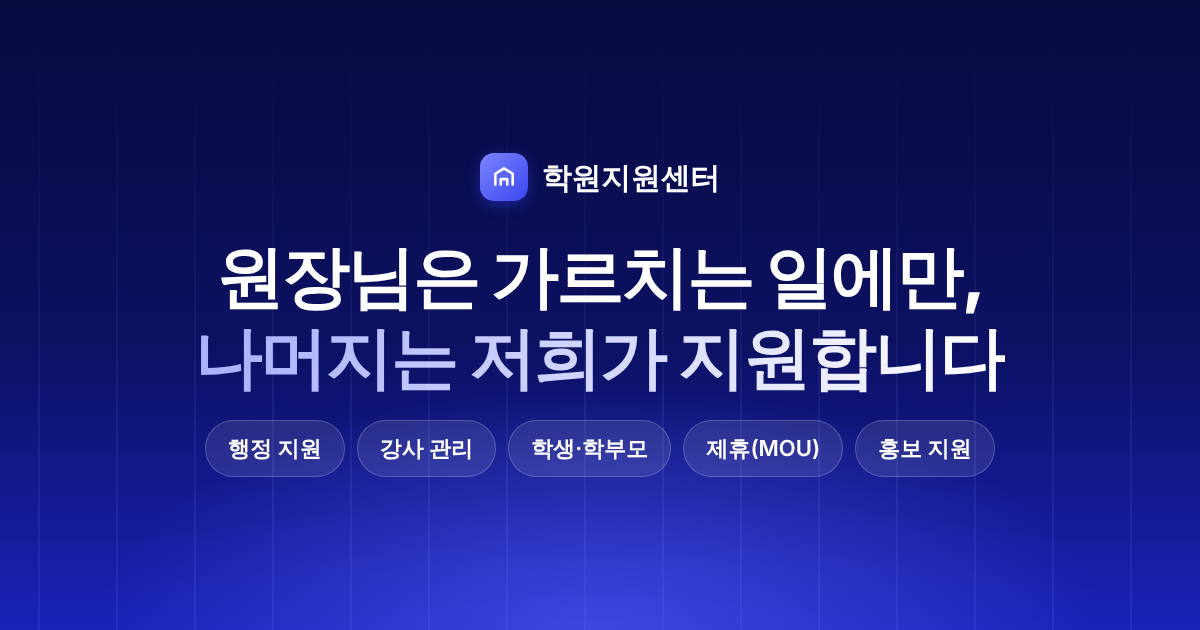
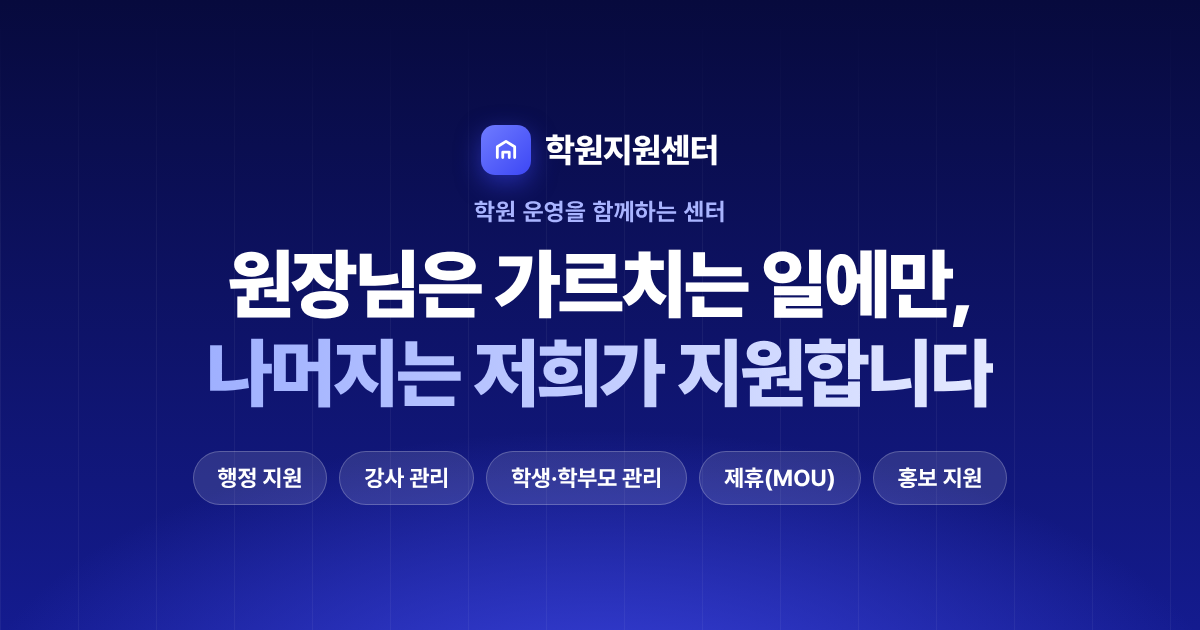
설정 · 내 정보 · 이름/아이디/전화번호 중복 막기 · 미리보기 이미지 굵게
- 설정(#settings): 내 정보 보기 · 고치기(휴대폰 포함) · 비밀번호 바꾸기, 우리 학원, 이용 중인 센터 지원, 결제 정보, 화면 밝기 · 로그인 유지 · 메뉴 설정, 계정
- 회원가입 · 구글 첫 가입 · 내 정보 고치기: 이름 · 아이디 · 휴대폰이 다른 회원과 겹치면 "이미 있는 이름이에요!"처럼 알려 주고 막아요 (DB 유일 인덱스 + check_profile_taken)
- 공유 미리보기 이미지: Pretendard 굵은 글씨, 첫 화면 문구 그대로 (og.png?v=2로 새로 읽게)

Claude-Session: https://claude.ai/code/session_01MVaVmcqrGUAxqJgxqJ2J3v

Changed region(s): [[0.1542, 0.3921, 1.0, 1.0], [0.0, 0.8143, 0.2467, 1.0], [0.4008, 0.181, 0.6167, 0.3619]]

diff --git a/index.html b/index.html
@@ -10,14 +10,14 @@
 <meta property="og:title" content="학원지원센터 — 원장님은 가르치는 일에만, 나머지는 저희가 지원합니다">
 <meta property="og:description" content="행정 지원부터 강사 교육·채용, 제휴(MOU), 홍보, 학생·학부모 관리까지. 학원 운영에 필요한 모든 지원을 한곳에서.">
 <meta property="og:url" content="https://academysupportcenter.vercel.app/">
-<meta property="og:image" content="https://academysupportcenter.vercel.app/assets/og.png">
+<meta property="og:image" content="https://academysupportcenter.vercel.app/assets/og.png?v=2">
 <meta property="og:image:width" content="1200">
 <meta property="og:image:height" content="630">
 <meta property="og:locale" content="ko_KR">
 <meta name="twitter:card" content="summary_large_image">
 <meta name="twitter:title" content="학원지원센터 — 원장님은 가르치는 일에만, 나머지는 저희가 지원합니다">
 <meta name="twitter:description" content="행정 지원부터 강사 교육·채용, 제휴(MOU), 홍보, 학생·학부모 관리까지. 학원 운영에 필요한 모든 지원을 한곳에서.">
-<meta name="twitter:image" content="https://academysupportcenter.vercel.app/assets/og.png">
+<meta name="twitter:image" content="https://academysupportcenter.vercel.app/assets/og.png?v=2">
 <meta name="theme-color" content="#070a3d">
 <link rel="icon" href="assets/favicon.svg" type="image/svg+xml">
 <link rel="stylesheet" href="https://cdn.jsdelivr.net/npm/pretendard@1.3.9/dist/web/static/pretendard.min.css">
@@ -88,7 +88,8 @@
           <label><input type="radio" name="role" value="student"><span>학생</span></label>
         </div>
       </div>
-      <div class="field"><label for="nm">이름</label><input id="nm" name="fullname" placeholder="예: 홍길동" autocomplete="name"></div>
+      <div class="field"><label for="nm">이름 <small>다른 회원과 겹치지 않게</small></label><input id="nm" name="fullname" placeholder="예: 홍길동" autocomplete="name"></div>
+      <div class="field" id="phField"><label for="sph">휴대폰 번호 <small id="phNote">아이디 · 비밀번호를 잊었을 때 확인해요</small></label><input id="sph" name="phone" type="tel" inputmode="numeric" maxlength="13" placeholder="010-0000-0000" autocomplete="tel"></div>
       <div class="field"><label for="sid">아이디 <small>영어 소문자·숫자·_ 4~20자</small></label><input id="sid" name="uid" placeholder="예: haneul_owner" autocomplete="username" autocapitalize="none"></div>
       <div class="field"><label for="spw">비밀번호 <small>8자 이상</small></label><input id="spw" name="pw" type="password" placeholder="8자 이상으로 정해 주세요" autocomplete="new-password"></div>
       <div class="field" id="acField"><label for="ac">학원 이름</label><input id="ac" name="academy" placeholder="예: 하늘영어학원"></div>
@@ -494,20 +495,36 @@ loginForm.onsubmit = e => {
   });
 };
 
+// 이름 · 아이디 · 전화번호가 다른 회원과 겹치면 가입하지 않고 알려 줘요 (서버도 한 번 더 막아요)
+const TAKEN_TEXT = { username: '아이디', name: '이름', phone: '전화번호' };
+const hasJong = w => { const c = w.charCodeAt(w.length - 1) - 0xac00; return c >= 0 && c <= 11171 && c % 28 > 0; };
+const takenMsg = list => { const w = list.map(k => TAKEN_TEXT[k]).join(' · '), j = hasJong(w); return `이미 있는 ${w}${j ? '이에요' : '예요'}! 다른 ${w}${j ? '을' : '를'} 써 주세요.`; };
+function markTaken(list) {
+  const map = { username: 'uid', name: 'fullname', phone: 'phone' };
+  Object.values(map).forEach(n => signupForm.elements[n].classList.remove('bad'));
+  list.forEach(k => signupForm.elements[map[k]].classList.add('bad'));
+  if (list.length) signupForm.elements[map[list[0]]].focus();
+}
 signupForm.onsubmit = e => {
   e.preventDefault();
-  const f = signupForm, el = f.elements, id = el.uid.value.trim().toLowerCase(), pw = el.pw.value, name = el.fullname.value.trim();
+  const f = signupForm, el = f.elements, id = el.uid.value.trim().toLowerCase(), pw = el.pw.value, name = el.fullname.value.trim(), phone = el.phone.value.trim();
+  const needPhone = el.role.value !== 'student';
+  markTaken([]);
   if (!name) return showMsg(signupMsg, '이름을 적어 주세요.');
+  if (needPhone && !phone) return showMsg(signupMsg, '휴대폰 번호를 적어 주세요.');
+  if (phone && !phoneOk(phone)) return showMsg(signupMsg, '휴대폰 번호 형식이 맞지 않아요. 예: 010-1234-5678');
   if (!ID_RULE.test(id)) return showMsg(signupMsg, '아이디는 영어 소문자·숫자·_ 로 4~20자예요.');
   if (pw.length < 8) return showMsg(signupMsg, '비밀번호는 8자 이상으로 정해 주세요.');
   if (!SB) return showMsg(signupMsg, '지금은 예시 계정으로만 둘러볼 수 있어요.');
   setKeepLogin(true);
   busy(f.querySelector('button'), '가입하는 중…', async () => {
+    const { data: taken } = await SB.rpc('check_profile_taken', { p_username: id, p_name: name, p_phone: phone || null });
+    if (taken && taken.length) { markTaken(taken); return showMsg(signupMsg, takenMsg(taken)); }
     const { data, error } = await SB.auth.signUp({
       email: idToEmail(id), password: pw,
-      options: { data: { username: id, name: name.slice(0, 50), role: el.role.value, academy_name: el.academy.value.trim().slice(0, 100) } }
+      options: { data: { username: id, name: name.slice(0, 50), phone: phone || null, role: el.role.value, academy_name: el.academy.value.trim().slice(0, 100) } }
     });
-    if (error) return showMsg(signupMsg, authErrorText(error));
+    if (error) return showMsg(signupMsg, /Database error/i.test(error.message || '') ? '이미 있는 이름 · 아이디 · 전화번호예요! 다시 확인해 주세요.' : authErrorText(error));
     if (!data.session) return showMsg(signupMsg, '가입은 됐는데 바로 로그인할 수 없어요. 센터에 문의해 주세요.');
     location.href = 'app.html';
   });
@@ -519,6 +536,8 @@ signupForm.querySelectorAll('[name=role]').forEach(r => r.onchange = () => {
   document.getElementById('acField').hidden = !owner;
   document.getElementById('codeHint').hidden = owner;
   document.getElementById('ownerHint').hidden = !owner;
+  // 학생은 휴대폰이 없을 수 있어서 전화번호를 꼭 받지 않아요 (부모님 번호는 부모님 계정이 써요)
+  document.getElementById('phNote').textContent = signupForm.elements.role.value === 'student' ? '없으면 비워 두세요 · 부모님 번호는 넣지 말아 주세요' : '아이디 · 비밀번호를 잊었을 때 확인해요';
 });
 
 document.getElementById('googleBtn').onclick = async () => {

diff --git a/assets/app.css b/assets/app.css
@@ -762,3 +762,33 @@ a.plan-card:hover, a.plan-card.on { background: rgba(255,255,255,.14); border-co
 .task-kind b { font-size: 14px; }
 .task-kind small { font-size: 12.5px; color: var(--muted); line-height: 1.5; }
 .task-kind .go { font-size: 12.5px; font-weight: 700; color: var(--blue-600); margin-top: 4px; }
+
+/* 설정 */
+.set-grid { display: grid; grid-template-columns: 1fr 1fr; gap: 16px; align-items: start; }
+.set-grid > div { display: grid; gap: 16px; }
+.set-card .row-btns { margin-top: 12px; }
+.set-me { display: flex; gap: 14px; align-items: center; margin-bottom: 10px; }
+.set-me > div { display: grid; gap: 2px; }
+.set-me b { font-size: 17px; }
+.set-row { display: flex; justify-content: space-between; gap: 12px; padding: 10px 0; border-bottom: 1px solid var(--line); font-size: 14px; }
+.set-row > span { color: var(--muted); flex: none; }
+.set-row > b { font-weight: 600; text-align: right; word-break: break-all; }
+.set-line { display: flex; justify-content: space-between; align-items: center; gap: 12px; padding: 12px 0; border-bottom: 1px solid var(--line); }
+.set-line:last-child { border-bottom: 0; }
+.set-line > div:first-child { display: grid; gap: 2px; }
+.set-line b { font-size: 14px; }
+.set-line small { font-size: 12.5px; color: var(--muted); }
+.set-line .admin-apply-link { white-space: nowrap; }
+.seg { display: inline-flex; background: var(--sunk); border-radius: 999px; padding: 3px; flex: none; }
+.seg button { border: 0; background: none; color: var(--muted); font: inherit; font-size: 13px; font-weight: 600; padding: 6px 12px; border-radius: 999px; cursor: pointer; }
+.seg button.on { background: var(--surface); color: var(--ink); box-shadow: 0 1px 4px rgba(0,0,0,.12); }
+.switch { position: relative; width: 46px; height: 26px; flex: none; }
+.switch input { opacity: 0; width: 0; height: 0; }
+.switch span { position: absolute; inset: 0; border-radius: 999px; background: var(--line); cursor: pointer; transition: .2s; }
+.switch span::after { content: ""; position: absolute; left: 3px; top: 3px; width: 20px; height: 20px; border-radius: 50%; background: #fff; transition: .2s; box-shadow: 0 1px 3px rgba(0,0,0,.2); }
+.switch input:checked + span { background: var(--blue-600); }
+.switch input:checked + span::after { transform: translateX(20px); }
+.me-link { display: flex; align-items: center; gap: 10px; color: inherit; text-decoration: none; border-radius: 12px; }
+.me-link:hover b { color: var(--blue-600); }
+@media (max-width: 900px) { .set-grid { grid-template-columns: 1fr; } }
+@media (max-width: 560px) { .set-line { flex-wrap: wrap; } .set-line > div:first-child { flex: 1 1 60%; } .seg button { padding: 6px 10px; } }

diff --git a/app.html b/app.html
@@ -10,14 +10,14 @@
 <meta property="og:title" content="학원지원센터">
 <meta property="og:description" content="행정 지원부터 강사 교육·채용, 제휴(MOU), 홍보, 학생·학부모 관리까지. 학원 운영에 필요한 모든 지원을 한곳에서.">
 <meta property="og:url" content="https://academysupportcenter.vercel.app/app.html">
-<meta property="og:image" content="https://academysupportcenter.vercel.app/assets/og.png">
+<meta property="og:image" content="https://academysupportcenter.vercel.app/assets/og.png?v=2">
 <meta property="og:image:width" content="1200">
 <meta property="og:image:height" content="630">
 <meta property="og:locale" content="ko_KR">
 <meta name="twitter:card" content="summary_large_image">
 <meta name="twitter:title" content="학원지원센터">
 <meta name="twitter:description" content="행정 지원부터 강사 교육·채용, 제휴(MOU), 홍보, 학생·학부모 관리까지. 학원 운영에 필요한 모든 지원을 한곳에서.">
-<meta name="twitter:image" content="https://academysupportcenter.vercel.app/assets/og.png">
+<meta name="twitter:image" content="https://academysupportcenter.vercel.app/assets/og.png?v=2">
 <meta name="theme-color" content="#070a3d">
 <link rel="icon" href="assets/favicon.svg" type="image/svg+xml">
 <link rel="stylesheet" href="https://cdn.jsdelivr.net/npm/pretendard@1.3.9/dist/web/static/pretendard.min.css">

diff --git a/assets/theme.js b/assets/theme.js
@@ -23,6 +23,12 @@
     try { localStorage.setItem('asc-theme', next); } catch (e) { /* 저장 못 해도 지금 화면은 바뀌어요 */ }
     paint();
   };
+  // 설정 화면: 기기 설정(system) · 밝게(light) · 어둡게(dark)
+  window.setThemeMode = mode => {
+    if (mode === 'dark' || mode === 'light') root.dataset.theme = mode; else delete root.dataset.theme;
+    try { if (mode === 'dark' || mode === 'light') localStorage.setItem('asc-theme', mode); else localStorage.removeItem('asc-theme'); } catch (e) { /* 지금 화면만 바뀌어요 */ }
+    paint();
+  };
   document.addEventListener('click', e => { if (e.target.closest('[data-theme-toggle]')) window.toggleTheme(); });
   mq.addEventListener && mq.addEventListener('change', paint);
   window.paintTheme = paint;

diff --git a/login.html b/login.html
@@ -6,7 +6,7 @@
 <title>학원지원센터</title>
 <meta property="og:title" content="학원지원센터 — 원장님은 가르치는 일에만, 나머지는 저희가 지원합니다">
 <meta property="og:description" content="행정 지원부터 강사 교육·채용, 제휴(MOU), 홍보, 학생·학부모 관리까지. 학원 운영에 필요한 모든 지원을 한곳에서.">
-<meta property="og:image" content="https://academysupportcenter.vercel.app/assets/og.png">
+<meta property="og:image" content="https://academysupportcenter.vercel.app/assets/og.png?v=2">
 <meta property="og:url" content="https://academysupportcenter.vercel.app/">
 <link rel="icon" href="assets/favicon.svg" type="image/svg+xml">
 <link rel="canonical" href="https://academysupportcenter.vercel.app/">

diff --git a/service.html b/service.html
@@ -6,7 +6,7 @@
 <title>학원지원센터</title>
 <meta property="og:title" content="학원지원센터 — 원장님은 가르치는 일에만, 나머지는 저희가 지원합니다">
 <meta property="og:description" content="행정 지원부터 강사 교육·채용, 제휴(MOU), 홍보, 학생·학부모 관리까지. 학원 운영에 필요한 모든 지원을 한곳에서.">
-<meta property="og:image" content="https://academysupportcenter.vercel.app/assets/og.png">
+<meta property="og:image" content="https://academysupportcenter.vercel.app/assets/og.png?v=2">
 <meta property="og:url" content="https://academysupportcenter.vercel.app/">
 <link rel="icon" href="assets/favicon.svg" type="image/svg+xml">
 <link rel="canonical" href="https://academysupportcenter.vercel.app/">

diff --git a/assets/site.css b/assets/site.css
@@ -167,6 +167,7 @@ main { display: grid; place-items: center; padding: 40px 24px; }
 .field label { font-size: 13px; font-weight: 600; }
 .field input { border: 1px solid var(--line); border-radius: 12px; padding: 12px 14px; background: var(--surface); }
 .field input:focus { border-color: var(--blue-500); outline: none; box-shadow: 0 0 0 4px var(--blue-50); }
+.field input.bad { border-color: #ff7a66; box-shadow: 0 0 0 4px rgba(255,122,102,.15); }
 .btn.wide { width: 100%; padding: 13px; font-size: 15px; }
 .divider { display: flex; align-items: center; gap: 12px; color: var(--muted); font-size: 12px; margin: 22px 0 14px; }
 .divider::before, .divider::after { content: ""; flex: 1; height: 1px; background: var(--line); }

diff --git a/CLAUDE.md b/CLAUDE.md
@@ -22,6 +22,8 @@
   - 관리자: 센터 관리 → 학원 · 이용 분야(`#center/academies`, `admin_academies()` · `set_academy_service(학원, 분야, 상태|null)`).
   - 학부모 · 학생: 제휴가 꺼져 있으면 유학 메뉴가 안 보여요.
 - 센터에 맡기기(`center_tasks`, 행정 · 강사 관리 · 학생·학부모 관리 아래 `…/center`): 원장이 서류 대신 작성 · 명단 옮기기 · 채용 대행 · 설명회 준비 같은 일(`TASK_KINDS`)을 맡기면, 관리자가 센터 관리 → 맡긴 일(`#center/tasks`)에서 접수 → 진행 중 → 완료 + 센터 메모(원장 화면에 보여요). 원장은 접수 단계에서만 고치기 · 취소, 상태 · 메모는 트리거가 관리자만 바꾸게 해요.
+- 설정(`#settings`, 모든 역할 · 오른쪽 위 내 이름이나 왼쪽 메뉴 "설정"): 내 정보(이름 · 아이디 · 휴대폰 · 로그인 방법, 고치기는 `profileDialog`, 아이디 로그인은 비밀번호 바꾸기), 우리 학원, 이용 중인 센터 지원, 결제 정보(원장: 센터 이용료 · 결제 수단 자리, 학부모: 낼 수강료), 화면 밝기(`setThemeMode` 기기 설정 · 밝게 · 어둡게) · 로그인 유지 · 자주 쓰는 메뉴 · 처음 안내 · 메뉴 묶음 펼치기, 로그아웃 · 관리자 신청 · 탈퇴 안내. 휴대폰이 없으면 홈에 한 줄 안내(`phoneHint`).
+- 공유 미리보기 이미지 `assets/og.png`는 Pretendard 굵은 글씨로 첫 화면 문구 그대로. 이미지를 바꾸면 메신저가 새로 읽도록 html의 `og.png?v=` 숫자를 올리기.
 - 센터에 문의하기(`#help`, 원장 · 강사만 — 왼쪽 아래 카드): `submit_inquiry`로 보내고 내 문의 · 답변을 봐요. 관리자는 센터 관리 → 문의(`#center/inquiries`)에서 `answer_inquiry`. 학부모 · 학생 화면에는 센터 카드가 없어요.
 - 예시 계정의 날짜는 실제 오늘(`DATA.today = todayText()`), 오늘 출결 · 아이 오늘 일정은 오늘 요일에 수업이 있는 것만(일요일엔 없음). 예시 수납은 미납 목록(`DATA.unpaid`)으로 미납 수 · 금액을 계산해서 홈 · 목록 · 메뉴 숫자가 같아요.
 - 입력 칸은 되도록 눌러서 고르게: `chips`(학년 `GRADES`, 과목 `SUBJECTS`, 반, 강사 `staffNames()`, 서류 이름 · 내는 곳, 다음 할 일 …), 지역은 `regionPicker`, 전화번호 칸(type tel)은 치는 동안 하이픈이 저절로.
@@ -42,7 +44,7 @@
 - 테이블(`supabase/migrations/`에 SQL 보관, 모두 RLS):
   - `support_requests`: 학원 → 센터 지원 신청. 첫 화면은 `submit_support_request(...)` RPC로 넣어요(필수 항목 · 전화번호 형식 · 개인정보 동의 `privacy_agreed_at` · 연락 받을 시간 `contact_time`을 서버에서도 확인, 접수 번호 8자리를 돌려줌). 읽기는 관리자만.
   - `inquiries`: 문의. 가입 전(`guest`, 이름 · 연락처 · 동의 필수)과 프로그램 사용자(`member`, 학원 · 역할이 저절로)를 `submit_inquiry(이름, 연락처, 분류, 내용, 동의)` 하나로 받아요. 본인 것과 관리자만 읽고, 답변은 관리자 `answer_inquiry(문의, 답변, 상태)`.
-  - `profiles`: 아이디·이름·역할·학원. 가입 시 트리거로 자동 생성, 본인 것만 보기·고치기.
+  - `profiles`: 아이디·이름·역할·학원·휴대폰(`phone`, 숫자만). 가입 시 트리거로 자동 생성, 본인 것만 보기·고치기. 이름(띄어쓰기 · 대소문자 빼고 비교 `private.norm_name`) · 아이디 · 휴대폰은 다른 회원과 겹치지 않아요(유일 인덱스 `profiles_name_uniq` · `profiles_phone_uniq` · `profiles_username_uniq`). 가입 · 고치기 전에 `check_profile_taken(아이디, 이름, 전화)`로 겹치는 것을 알려 주고("이미 있는 이름이에요!"), 서버도 막아요. 구글로 처음 올 때 이름이 겹치면 이름을 비워 두고 앱이 이름을 다시 정하게 해요(`rolePicker(user, true)`). 학생은 휴대폰을 비워 둘 수 있어요.
   - `academies`, `academy_members`(한 학원에 원장 여러 명 가능), `academy_codes`(원장용·강사용·학부모·학생용 초대 코드, 원장만 RPC로 조회), `students`(원장 · 강사 추가 · 수정, 삭제는 원장만, 강사는 담당 반 학생 + 내가 추가한 학생만 — `private.can_see_student` · `private.my_classes`(원장이 정한 `academy_members.classes` + 시간표에서 담당 강사가 나인 반). 출결 · 할 일 · 성장 리포트도 같은 기준. 원장은 강사 관리 → 우리 학원 강사 "강사 담당 반"에서 `list_teacher_classes` · `set_teacher_classes`, 강사 화면 안내는 `my_teacher_classes`, 추가한 사람 `added_by_name` · `added_by_role`은 트리거, 수강료 `tuition_plan_id`).
   - 역할은 스스로 고른 게 아니라 "어떤 초대 코드로 들어왔는지"로 정해진다. 원장은 `create_academy`(지역은 시·도 → 시·군·구 고르기, 꼭 골라야 해요), 나머지는 `join_academy(코드)`.
   - 정책용 도우미 함수는 API에 안 보이는 `private` 스키마(`private.academy_role`).
